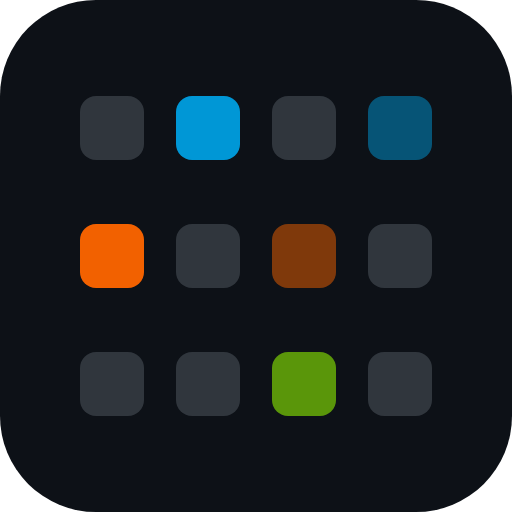
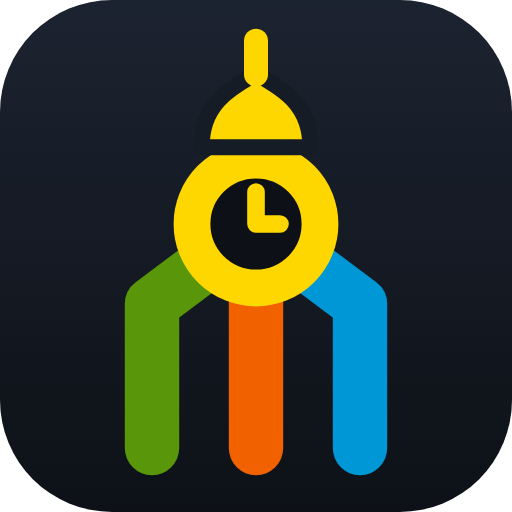
Refresh the brand: City Hall tower mark and Overpass wordmark
The tile-grid favicon was hard to read at tab size, and the site name was
plain system type. The new mark draws Philadelphia City Hall's tower in
transit lines: the L1, B, and T colors rise as the shaft and meet at the
clock, under the dome and William Penn. It replaces the old mark in the
favicon, touch and maskable icons, the header and footer, and the share card.

The wordmark and page headings now use Overpass, an open-source take on
the Highway Gothic road-sign lettering. It's self-hosted through
@fontsource-variable, so the site still loads no third-party fonts. The
header sets "SEPTA" heavy and "Transit Alerts" lighter, and on narrow
phones the line breaks after "SEPTA". Body text stays on the system stack.

render-brand-assets inlines the font into the OG card. The PNGs were
regenerated with SITE_URL=https://philly-transit-alerts.fyi.

Claude-Session: https://claude.ai/code/session_01SDaXcSV7PRVGm2Rk6dKjyn

diff --git a/scripts/og-template.html b/scripts/og-template.html
@@ -4,6 +4,13 @@
     <meta charset="UTF-8" />
     <title>OG card</title>
     <style>
+      /* The wordmark's display face, inlined as a data: URI by
+         scripts/render-brand-assets.js (the card renders offline). */
+      @font-face {
+        font-family: 'Overpass Variable';
+        font-weight: 100 900;
+        src: url(__BRAND_FONT__) format('woff2-variations');
+      }
       :root {
         --l1: #0097d6;
         --b: #f26100;
@@ -82,13 +89,31 @@
         flex: 1;
         min-width: 0;
       }
+      .lockup {
+        display: flex;
+        align-items: center;
+        gap: 18px;
+        margin: 0 0 18px;
+      }
+      .lockup svg {
+        width: 76px;
+        height: 76px;
+        flex-shrink: 0;
+        border-radius: 17px;
+        box-shadow: 0 6px 16px rgba(15, 23, 42, 0.18);
+      }
       .title {
-        font-size: 64px;
-        line-height: 1;
-        font-weight: 800;
+        font-family: 'Overpass Variable', sans-serif;
+        font-size: 60px;
+        line-height: 0.95;
+        font-weight: 900;
         color: #0f172a;
         letter-spacing: -0.025em;
-        margin: 0 0 14px;
+        margin: 0;
+      }
+      .title .product {
+        font-weight: 500;
+        color: #475569;
       }
       .subtitle {
         font-size: 19px;
@@ -146,7 +171,28 @@
 
       <div class="body-row">
         <div class="copy">
-          <h1 class="title">SEPTA Transit<br />Alerts</h1>
+          <div class="lockup">
+            <!-- Same drawing as public/favicon.svg. -->
+            <svg viewBox="0 0 32 32" aria-hidden="true">
+              <defs>
+                <linearGradient id="bg" x1="0" y1="0" x2="0" y2="1">
+                  <stop offset="0" stop-color="#1c2330" />
+                  <stop offset="1" stop-color="#0d1117" />
+                </linearGradient>
+              </defs>
+              <rect width="32" height="32" rx="7" fill="url(#bg)" />
+              <g stroke-width="3.4" stroke-linecap="round" stroke-linejoin="round" fill="none">
+                <path d="M9.5 28v-9l4-3" stroke="#5A960A" />
+                <path d="M16 28V18" stroke="#F26100" />
+                <path d="M22.5 28v-9l-4-3" stroke="#0097D6" />
+              </g>
+              <circle cx="16" cy="14" r="4" fill="#0d1117" stroke="#FFD700" stroke-width="2.3" />
+              <path d="M16 14v-2M16 14h1.5" stroke="#FFD700" stroke-width="1.1" stroke-linecap="round" />
+              <path d="M12.6 9.2C12.6 6.6 14.2 5.6 16 4.6 17.8 5.6 19.4 6.6 19.4 9.2Z" fill="#FFD700" stroke="#161c26" stroke-width="1" />
+              <rect x="15.25" y="1.8" width="1.5" height="3.6" rx=".75" fill="#FFD700" />
+            </svg>
+            <h1 class="title">SEPTA<br /><span class="product">Transit Alerts</span></h1>
+          </div>
           <p class="subtitle">
             A public archive of SEPTA service alerts and detected disruptions across Metro, buses,
             and Regional Rail.

diff --git a/src/components/BrandMark.jsx b/src/components/BrandMark.jsx
@@ -1,22 +1,36 @@
-// The site's tile-grid mark (same drawing as public/favicon.svg): three rows
-// of tiles for the L1, B, and T lines, with lit tiles in each line's color.
+import { useId } from 'react';
+
+// The site's mark (same drawing as public/favicon.svg): Philadelphia City
+// Hall's tower drawn in transit lines — the L1, B, and T colors rise as the
+// shaft and meet at the clock, under the dome and William Penn.
 // Decorative — the site name always sits beside it.
 export default function BrandMark({ className = 'h-8 w-8' }) {
+  // The header and footer both render a mark, so the gradient id must be unique
+  // (and a plain name: url(#…) can't take every character useId may emit).
+  const bg = `brand-bg${useId().replace(/[^\w-]/g, '')}`;
   return (
     <svg viewBox="0 0 32 32" className={className} aria-hidden="true" focusable="false">
-      <rect width="32" height="32" rx="7" fill="#0d1117" />
-      <rect x="5" y="6" width="4" height="4" rx="1" fill="#30363d" />
-      <rect x="11" y="6" width="4" height="4" rx="1" fill="#0097D6" />
-      <rect x="17" y="6" width="4" height="4" rx="1" fill="#30363d" />
-      <rect x="23" y="6" width="4" height="4" rx="1" fill="#0097D6" opacity="0.5" />
-      <rect x="5" y="14" width="4" height="4" rx="1" fill="#F26100" />
-      <rect x="11" y="14" width="4" height="4" rx="1" fill="#30363d" />
-      <rect x="17" y="14" width="4" height="4" rx="1" fill="#F26100" opacity="0.5" />
-      <rect x="23" y="14" width="4" height="4" rx="1" fill="#30363d" />
-      <rect x="5" y="22" width="4" height="4" rx="1" fill="#30363d" />
-      <rect x="11" y="22" width="4" height="4" rx="1" fill="#30363d" />
-      <rect x="17" y="22" width="4" height="4" rx="1" fill="#5A960A" />
-      <rect x="23" y="22" width="4" height="4" rx="1" fill="#30363d" />
+      <defs>
+        <linearGradient id={bg} x1="0" y1="0" x2="0" y2="1">
+          <stop offset="0" stopColor="#1c2330" />
+          <stop offset="1" stopColor="#0d1117" />
+        </linearGradient>
+      </defs>
+      <rect width="32" height="32" rx="7" fill={`url(#${bg})`} />
+      <g strokeWidth="3.4" strokeLinecap="round" strokeLinejoin="round" fill="none">
+        <path d="M9.5 28v-9l4-3" stroke="#5A960A" />
+        <path d="M16 28V18" stroke="#F26100" />
+        <path d="M22.5 28v-9l-4-3" stroke="#0097D6" />
+      </g>
+      <circle cx="16" cy="14" r="4" fill="#0d1117" stroke="#FFD700" strokeWidth="2.3" />
+      <path d="M16 14v-2M16 14h1.5" stroke="#FFD700" strokeWidth="1.1" strokeLinecap="round" />
+      <path
+        d="M12.6 9.2C12.6 6.6 14.2 5.6 16 4.6 17.8 5.6 19.4 6.6 19.4 9.2Z"
+        fill="#FFD700"
+        stroke="#161c26"
+        strokeWidth="1"
+      />
+      <rect x="15.25" y="1.8" width="1.5" height="3.6" rx=".75" fill="#FFD700" />
     </svg>
   );
 }

diff --git a/src/components/Header.jsx b/src/components/Header.jsx
@@ -48,7 +48,7 @@ function InfoPopover({ children, label = 'What does this mean?' }) {
 }
 
 // Thin band of SEPTA line colors along the top edge — the same palette as the
-// tile-grid mark, so every page opens on the system's colors.
+// brand mark, so every page opens on the system's colors.
 function LineStripe() {
   return (
     <div className="flex h-1" aria-hidden="true">
@@ -94,12 +94,18 @@ export default function Header({
               className="group flex items-center gap-2.5 text-left"
               aria-label="Reset filters and return to default view"
             >
-              <BrandMark className="h-9 w-9 flex-shrink-0 rounded-lg shadow-sm ring-1 ring-black/5 dark:ring-white/10" />
+              <BrandMark className="h-10 w-10 sm:h-11 sm:w-11 flex-shrink-0 rounded-[10px] shadow-md shadow-slate-900/10 ring-1 ring-black/5 dark:shadow-none dark:ring-white/10 transition-transform group-hover:-rotate-3" />
               <span className="min-w-0">
-                <span className="block text-lg sm:text-xl font-bold leading-tight tracking-tight text-slate-900 dark:text-slate-100 group-hover:opacity-70 transition-opacity">
-                  {SITE_NAME}
+                {/* Two-weight wordmark in the display face: the agency name heavy,
+                    the product name lighter. Reads as SITE_NAME to screen readers. */}
+                <span className="block font-display text-xl sm:text-2xl leading-none tracking-tight text-slate-900 dark:text-slate-50 group-hover:opacity-75 transition-opacity">
+                  <span className="font-black">{SITE_NAME.split(' ')[0]}</span>{' '}
+                  {/* nowrap: on a narrow phone the lockup breaks after the agency name. */}
+                  <span className="font-medium whitespace-nowrap text-slate-600 dark:text-slate-300">
+                    {SITE_NAME.split(' ').slice(1).join(' ')}
+                  </span>
                 </span>
-                <span className="hidden sm:block text-xs font-normal text-slate-500 dark:text-slate-400">
+                <span className="hidden sm:block mt-1 font-sans text-xs font-normal text-slate-500 dark:text-slate-400">
                   SEPTA Metro, bus, and Regional Rail alerts and disruptions
                 </span>
               </span>

diff --git a/scripts/render-brand-assets.js b/scripts/render-brand-assets.js
@@ -8,7 +8,8 @@
 //
 // Run with `npm run brand-assets` after editing any of the sources, and commit
 // the PNGs. The OG card's footer URL comes from SITE_URL (src/lib/site.js), so
-// re-run this when the site's domain changes.
+// re-run this when the site's domain changes. Its title is set in the site's
+// display face (Overpass), inlined from node_modules.
 
 import { readFileSync } from 'node:fs';
 import { dirname, resolve } from 'node:path';
@@ -19,6 +20,10 @@ import { launchChromium } from './browser.js';
 const __dirname = dirname(fileURLToPath(import.meta.url));
 const ROOT = resolve(__dirname, '..');
 const SITE_HOST = new URL(SITE_ORIGIN).host;
+const BRAND_FONT = resolve(
+  ROOT,
+  'node_modules/@fontsource-variable/overpass/files/overpass-latin-wght-normal.woff2',
+);
 
 const ICONS = [
   { src: 'public/favicon.svg', out: 'public/favicon-16.png', size: 16 },
@@ -43,11 +48,14 @@ try {
     viewport: { width: 1024, height: 538 },
     deviceScaleFactor: 1200 / 1024,
   });
-  const ogHtml = readFileSync(resolve(ROOT, 'scripts/og-template.html'), 'utf8').replaceAll(
-    '__SITE_HOST__',
-    SITE_HOST,
-  );
+  const ogHtml = readFileSync(resolve(ROOT, 'scripts/og-template.html'), 'utf8')
+    .replaceAll('__SITE_HOST__', SITE_HOST)
+    .replace(
+      '__BRAND_FONT__',
+      `data:font/woff2;base64,${readFileSync(BRAND_FONT).toString('base64')}`,
+    );
   await og.setContent(ogHtml, { waitUntil: 'load' });
+  await og.evaluate(() => document.fonts.ready);
   await og.screenshot({
     path: resolve(ROOT, 'public/og-image.png'),
     clip: { x: 0, y: 0, width: 1024, height: 538 },

diff --git a/src/index.css b/src/index.css
@@ -2,6 +2,13 @@
 @tailwind components;
 @tailwind utilities;
 
+/* Page titles and section labels share the wordmark's display face — the
+   `font-display` stack in tailwind.config.js. Body text stays on the system
+   stack. Zero specificity, so a heading's own font-* class still wins. */
+:where(h1, h2) {
+  font-family: "Overpass Variable", ui-sans-serif, system-ui, sans-serif;
+}
+
 /* Skip-to-main-content link: the first focusable element, visually hidden
    until it receives keyboard focus, then pinned to the top-left so a keyboard
    user can jump past the header straight into the page's <main>. */

diff --git a/tailwind.config.js b/tailwind.config.js
@@ -4,6 +4,11 @@ export default {
   darkMode: 'class',
   theme: {
     extend: {
+      fontFamily: {
+        // Overpass is an open-source take on Highway Gothic, the lettering on
+        // US road signs — a transit-signage voice for the wordmark and headings.
+        display: ['"Overpass Variable"', 'ui-sans-serif', 'system-ui', 'sans-serif'],
+      },
       colors: {
         gh: {
           canvas: '#0d1117', // main background

diff --git a/src/main.jsx b/src/main.jsx
@@ -1,5 +1,8 @@
 import { lazy, StrictMode, Suspense } from 'react';
 import { createRoot } from 'react-dom/client';
+// Self-hosted brand typeface (bundled by Vite, no third-party font request):
+// the wordmark and page headings. Body text stays on the system stack.
+import '@fontsource-variable/overpass';
 import './index.css';
 import { installStaleAssetReload } from './lib/staleAssetReload.js';
 

diff --git a/src/lib/nav.js b/src/lib/nav.js
@@ -28,7 +28,7 @@ export function activeNavKey(pathname) {
 }
 
 // SEPTA line colors in the order the header stripe shows them: L1, B, M1, T,
-// G, D, then Regional Rail. Same palette as the favicon tile grid and the
+// G, D, then Regional Rail. Same palette as the City Hall tower favicon and the
 // Bluesky profile art.
 export const LINE_STRIPE = [
   '#0097D6',
